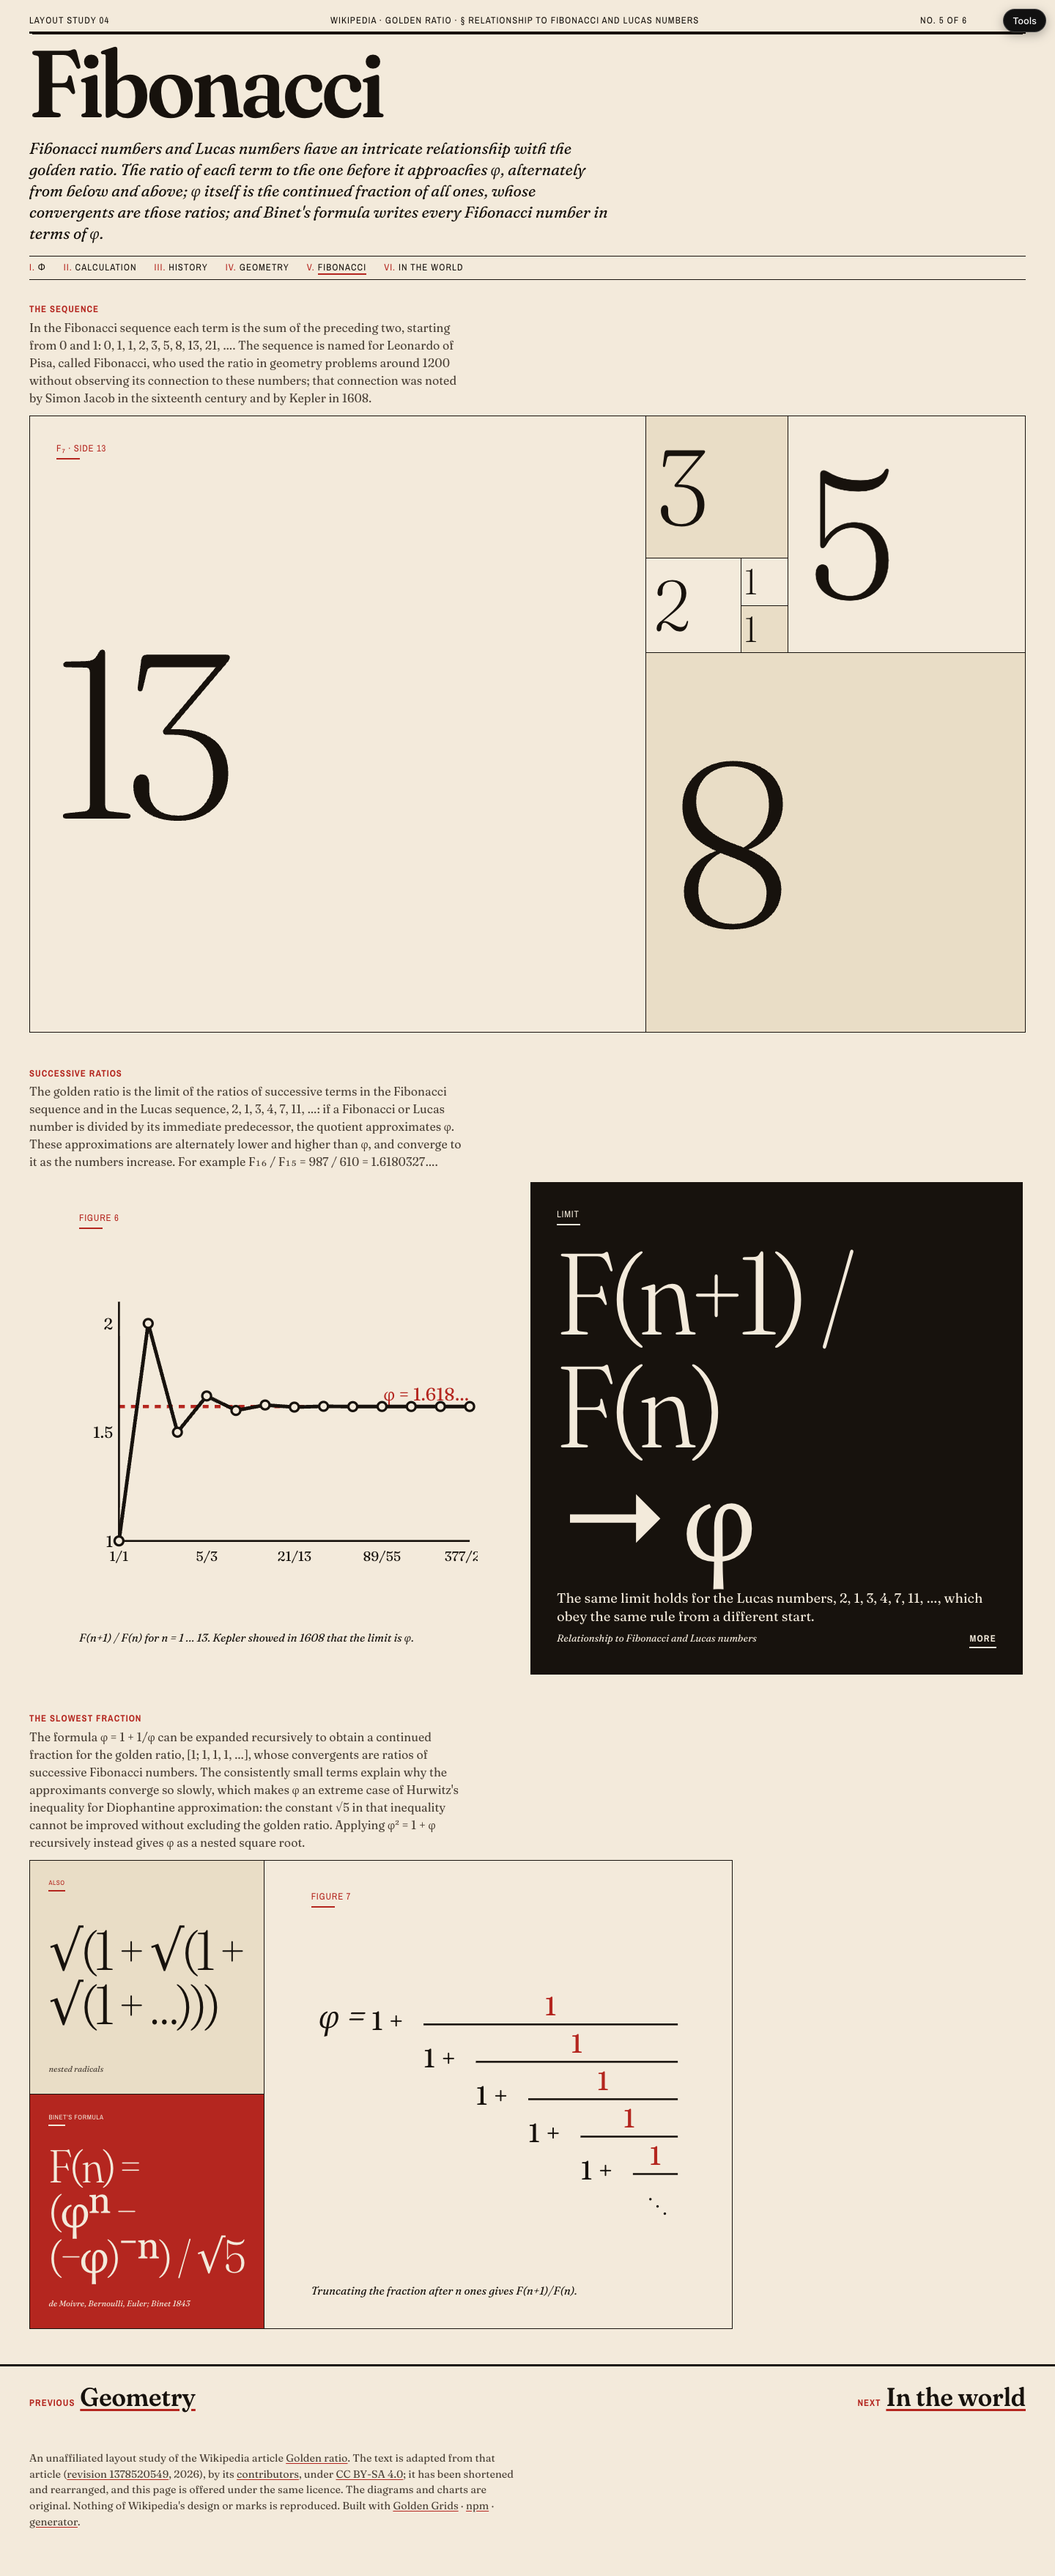
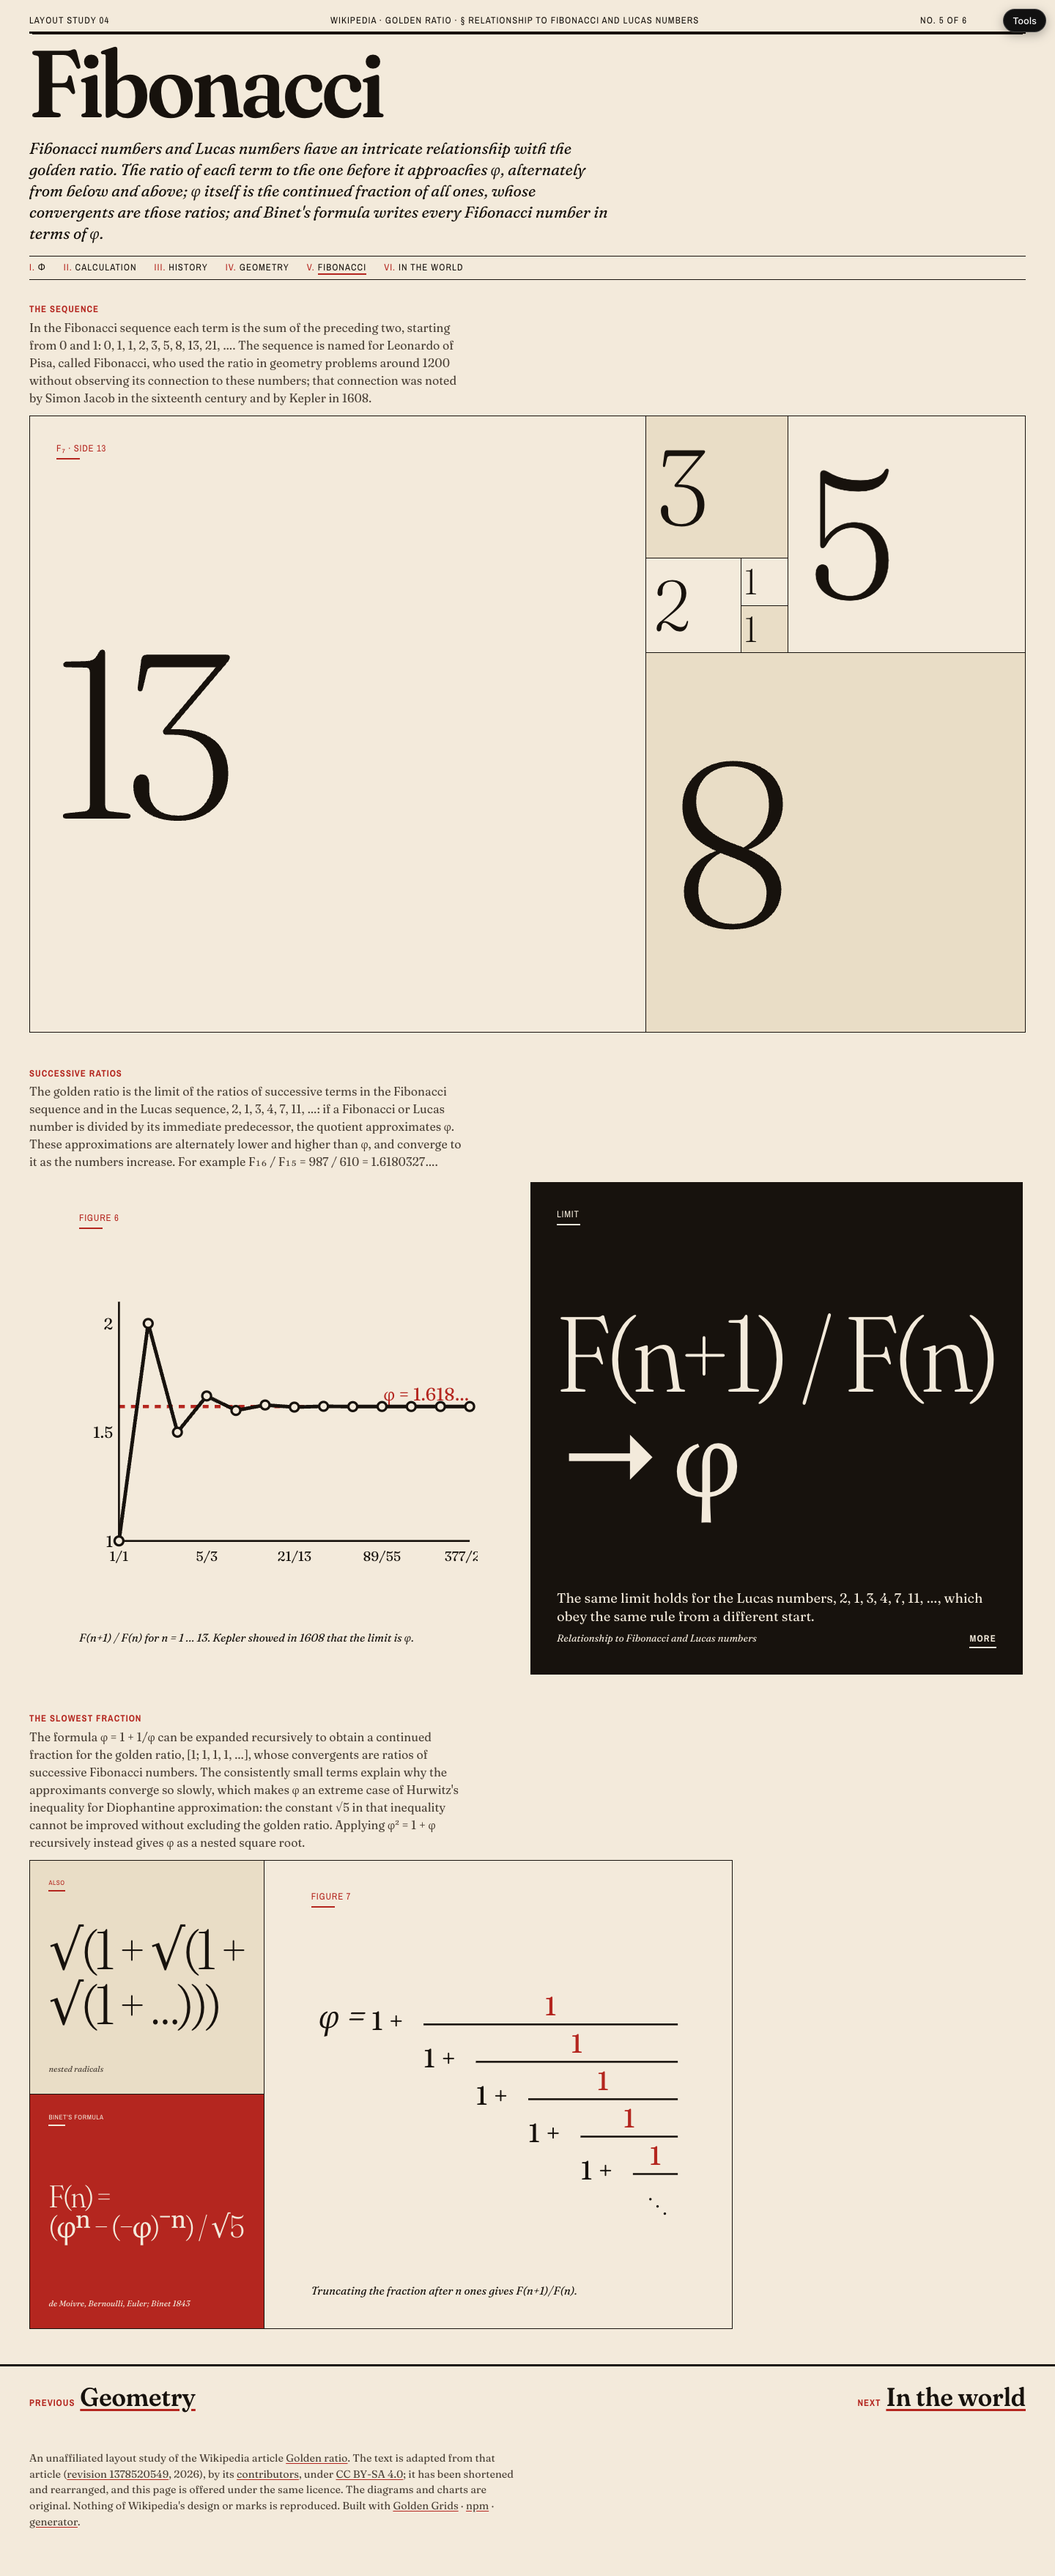
fix: restore figure captions in mid-size squares; break formulas only where written
Container queries measure the content box, so the wider padding had hidden
captions in squares that had room for them; thresholds adjusted. Formula
lines are white-space: pre with text-wrap: nowrap and carry their own line
breaks, so no expression wraps mid-term.

diff --git a/src/pages/index.tsx b/src/pages/index.tsx
@@ -79,7 +79,7 @@ function Lead() {
           </Fact>
         </GoldenBox>
         <GoldenBox>
-          <Fact label="Satisfies" fitClass="fit--num" link={{ href: "./calculation.html#derivation", label: "§ II" }} spoken="phi squared equals phi plus one">φ² = φ + 1</Fact>
+          <Fact label="Satisfies" fitClass="fit--num" link={{ href: "./calculation.html#derivation", label: "§ II" }} spoken="phi squared equals phi plus one">{"φ² =\nφ + 1"}</Fact>
         </GoldenBox>
       </GoldenGrid>
     </Band>
@@ -105,10 +105,10 @@ function Infobox() {
           </Fact>
         </GoldenBox>
         <GoldenBox>
-          <Fact label="Algebraic form" tone="deep" fitClass="fit--num" link={{ href: "./calculation.html#roots", label: "§ II" }} spoken="one plus the square root of five, over two">(1 + √5) / 2</Fact>
+          <Fact label="Algebraic form" tone="deep" fitClass="fit--num" link={{ href: "./calculation.html#roots", label: "§ II" }} spoken="one plus the square root of five, over two">{"(1 + √5)\n/ 2"}</Fact>
         </GoldenBox>
         <GoldenBox>
-          <Fact label="Continued fraction" tone="deep" fitClass="fit--num" link={{ href: "./fibonacci.html#fraction", label: "§ V" }} spoken="one; one, one, one, and so on">[1; 1, 1, 1, …]</Fact>
+          <Fact label="Continued fraction" tone="deep" fitClass="fit--num" link={{ href: "./fibonacci.html#fraction", label: "§ V" }} spoken="one; one, one, one, and so on">{"[1; 1,\n1, 1, …]"}</Fact>
         </GoldenBox>
       </GoldenGrid>
     </Band>

diff --git a/src/styles.css b/src/styles.css
@@ -170,7 +170,9 @@ a { color: inherit; text-decoration: underline; text-decoration-color: var(--red
   white-space: pre-line;
   text-wrap: balance;
 }
-.fit--num { font-weight: 300; letter-spacing: -0.04em; font-variant-numeric: lining-nums tabular-nums; }
+/* A formula breaks only where its author broke it (a \n in the text), never
+   mid-expression. */
+.fit--num { font-weight: 300; letter-spacing: -0.04em; font-variant-numeric: lining-nums tabular-nums; white-space: pre; text-wrap: nowrap; }
 .fit--italic { font-style: italic; font-weight: 400; }
 .fit--caps { font-family: var(--label); font-variation-settings: normal; font-weight: 700; text-transform: uppercase; letter-spacing: 0.02em; line-height: 0.9; }
 /* Body copy inside a box: sized to the box, capped either way. */
@@ -234,7 +236,8 @@ a.box:hover .fit, a.box:focus-visible .fit { text-decoration: underline; text-de
 /* A box too small for its supporting matter keeps only the fitted line.
    The box is its own container, so the rule follows the square, not the
    viewport: a unit square at 390 and a unit square at 1440 are both small. */
-@container (max-width: 150px) or (max-height: 110px) {
+/* Container queries measure the CONTENT box, inside the padding. */
+@container (max-width: 110px) or (max-height: 90px) {
   .box__body, .box__caption, .box__foot, .box__source { display: none; }
   .box__label { font-size: 0.5rem; letter-spacing: 0.04em; }
   .box__label::after { display: none; }

diff --git a/src/pages/geometry.tsx b/src/pages/geometry.tsx
@@ -63,7 +63,7 @@ function Rectangle() {
               source: "Adapted from the section Golden spiral.",
               related: [{ href: "./world.html#disputed", label: "The nautilus shell, which is not one" }],
             }}
-          >r = φ^(2θ/π)</Fact>
+          >{"r =\nφ^(2θ/π)"}</Fact>
         </GoldenBox>
         <GoldenBox>
           <Fact label="Solids" body={<p>Three golden rectangles, mutually perpendicular, have the icosahedron's twelve vertices at their corners.</p>}>Icosahedron</Fact>
@@ -110,13 +110,13 @@ function Pentagon() {
           >a / b = φ</Fact>
         </GoldenBox>
         <GoldenBox>
-          <Fact label="From the pentagon" tone="deep" fitClass="fit--num">φ = 2 cos 36°</Fact>
+          <Fact label="From the pentagon" tone="deep" fitClass="fit--num" spoken="phi equals two cosine thirty-six degrees">{"φ = 2\ncos 36°"}</Fact>
         </GoldenBox>
         <GoldenBox>
-          <Fact label="Equivalently" tone="deep" fitClass="fit--num">1 + 2 sin 18°</Fact>
+          <Fact label="Equivalently" tone="deep" fitClass="fit--num" spoken="one plus two sine eighteen degrees">{"1 + 2\nsin 18°"}</Fact>
         </GoldenBox>
         <GoldenBox>
-          <Fact label="And" fitClass="fit--num">2 sin 54°</Fact>
+          <Fact label="And" fitClass="fit--num" spoken="two sine fifty-four degrees">{"2 sin\n54°"}</Fact>
         </GoldenBox>
       </GoldenGrid>
     </Band>

diff --git a/src/pages/calculation.tsx b/src/pages/calculation.tsx
@@ -58,7 +58,7 @@ function Derivation() {
           </Fact>
         </GoldenBox>
         <GoldenBox {...x.boxProps("poly")}>
-          <Fact label="Step 4 · rearrange" fitClass="fit--num" tone="deep" body={<p>A quadratic equation in φ: its minimal polynomial.</p>}
+          <Fact label="Step 4 · rearrange" fitClass="fit--num" tone="deep" body={<p>A quadratic equation in φ: its minimal polynomial.</p>} spoken="phi squared minus phi minus one equals zero"
             expand={{
               group: x, slotKey: "poly", title: "The minimal polynomial",
               full: (
@@ -70,10 +70,10 @@ function Derivation() {
               source: "Adapted from the section Minimal polynomial.",
               related: [{ href: "./geometry.html#pentagon", label: "Constructing φ in the pentagon" }],
             }}
-          >φ² − φ − 1 = 0</Fact>
+          >{"φ² − φ − 1\n= 0"}</Fact>
         </GoldenBox>
         <GoldenBox>
-          <Fact label="Step 3 · multiply by φ" fitClass="fit--num">φ + 1 = φ²</Fact>
+          <Fact label="Step 3 · multiply by φ" fitClass="fit--num" spoken="phi plus one equals phi squared">{"φ + 1\n= φ²"}</Fact>
         </GoldenBox>
         <GoldenBox>
           <Fact label="Step 2 · substitute" fitClass="fit--num" tone="deep" spoken="phi plus one, over phi, equals phi">{"(φ + 1) / φ\n= φ"}</Fact>

diff --git a/src/pages/fibonacci.tsx b/src/pages/fibonacci.tsx
@@ -102,7 +102,7 @@ function Fraction() {
           </Figure>
         </GoldenBox>
         <GoldenBox>
-          <Fact label="Also" tone="deep" fitClass="fit--num" source="nested radicals" spoken="the square root of one plus the square root of one plus the square root of one plus, and so on">√(1 + √(1 + √(1 + …)))</Fact>
+          <Fact label="Also" tone="deep" fitClass="fit--num" source="nested radicals" spoken="the square root of one plus the square root of one plus the square root of one plus, and so on">{"√(1 + √(1 +\n√(1 + …)))"}</Fact>
         </GoldenBox>
         <GoldenBox>
           <Fact label="Binet's formula" tone="red" fitClass="fit--num" source="de Moivre, Bernoulli, Euler; Binet 1843" spoken="F of n equals phi to the n, minus minus phi to the minus n, all over the square root of five">{"F(n) =\n(φⁿ − (−φ)⁻ⁿ) / √5"}</Fact>
